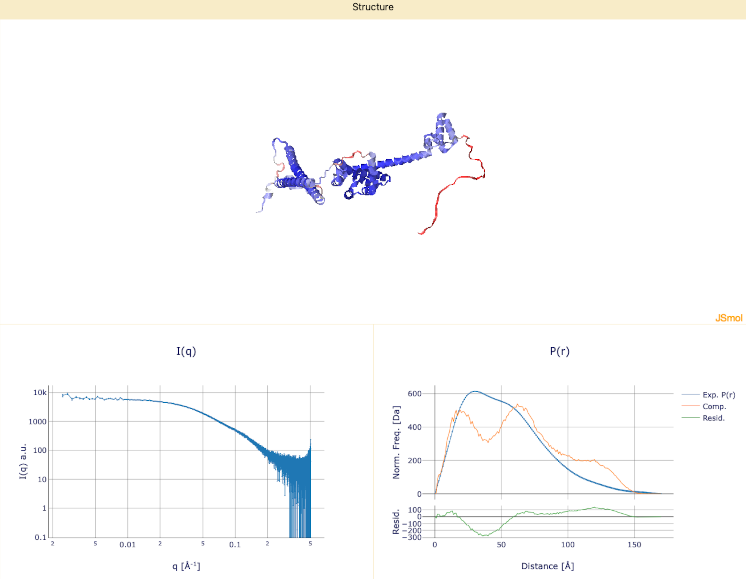
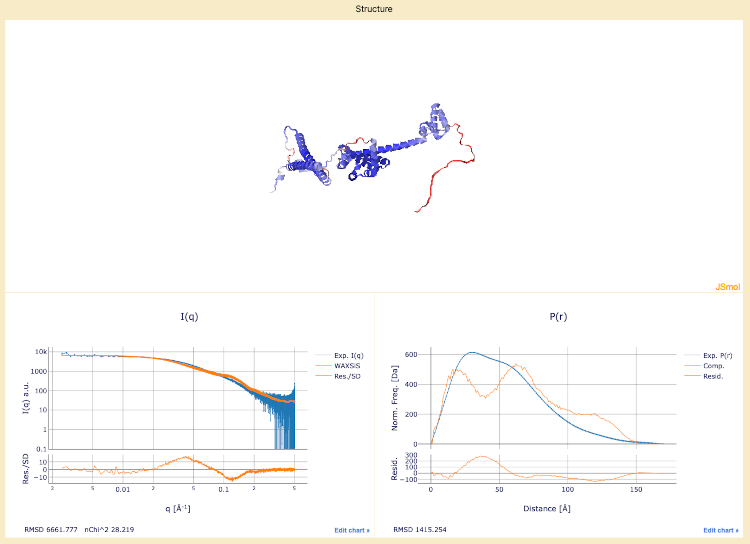
update image to include WAXSiS curve.

diff --git a/SAXSAFOLD/saxsafold.html b/SAXSAFOLD/saxsafold.html
@@ -114,7 +114,7 @@
                 <li>Press "Process" to perform SAXS calculations and generate P(r) and I(q) plots.</li>
                 <li>Once it is complete, then scroll down to see generated P(r) and I(q) plots.</li>
                 <img src="images/alphafold_structure_process.png" alt="AlphaFold Structures Processed Screenshot"
-                /><br><em>AlphaFold Structure: The completed plot for I(q), including the WAXSiS calculated curve, should be shown</em>
+                /><br><em>AlphaFold Structure</em>
             </ol>
 
             <h4>Part IV: Flexible Region Analysis</h4>
@@ -162,7 +162,7 @@
                 <img src="images/mmc_results.png" alt="Retrieve MMC Screenshot" /><br><em>Retrieve MMC tab</em>
                 <li>Set "Stride" to "10". This stride value is for reasonable compute times for tutorial purposes. In practice, the stride should be selected based on the results of the Rg histograms.</li>
                 <li>Set "Offset" to "0".</li>
-                <li>Generate histograms of Rg values to evaluate the distribution of conformations by pressing the "Submit" button. The goal is to have a reasonably similar Rg districution before and after the stride application.</li>
+                <li>Generate histograms of Rg values to evaluate the distribution of conformations by pressing the "Submit" button. The goal is to have a reasonably similar Rg distribution before and after the stride application.</li>
                 <li>Once that is complete then select "Extract frames" switch and press "Submit" button. After that is complete, continue to the next section.</li>
                 <img src="images/mmc_results_enabled.png" alt="MMC Results Histogram" /><br><em>Histogram of MMC Results and Rg values</em>
             </ol>
@@ -173,15 +173,15 @@
                 <img src="images/nnls_fitting.png" alt="Compute and Fit I(q) Profiles Screenshot" /><br><em>Compute and scale I(q) and P(r) Profiles, Preselect Models </em>
                 <li>Use the computation method: PEPSI-SAXS.</li>
                 <li>Enable "Perform a Second P(r) NNLS Fit" if additional fitting is required.</li>
-                <li>Submit to perform computations and view real-time progress. Once it is complete, continue to the next section. . Progress will show first advancements in the P(r) computations, then on the I(q) computations, both in blocks of 50 curves.</li>
+                <li>Submit to perform computations and view real-time progress. Once it is complete, continue to the next section. Progress will show first advancements in the P(r) computations, then on the I(q) computations, both in blocks of 50 curves.</li>
             </ol>
 
             <h4>Part VIII: Final Model Selection</h4>
             <ol>
                 <li>Navigate to the "Final Models Selection Using WAXSiS" tab.</li>
                 <img src="images/final_models.png" alt="Final Model Selection Screenshot" /><br><em>Final Model Selection tab</em>
-                <li>Click "Submit"</li>
-                <li>Review Models</li>
+                <li>Click "Submit". This process can take up to a day to complete.</li>
+                <li>Review Models.</li>
                 <img src="images/final_models_graphs.png" alt="Final Models Graphs" /><br><em>Final
                     models with WAXSiS computations</em>
                 <li>Review structure</li>
